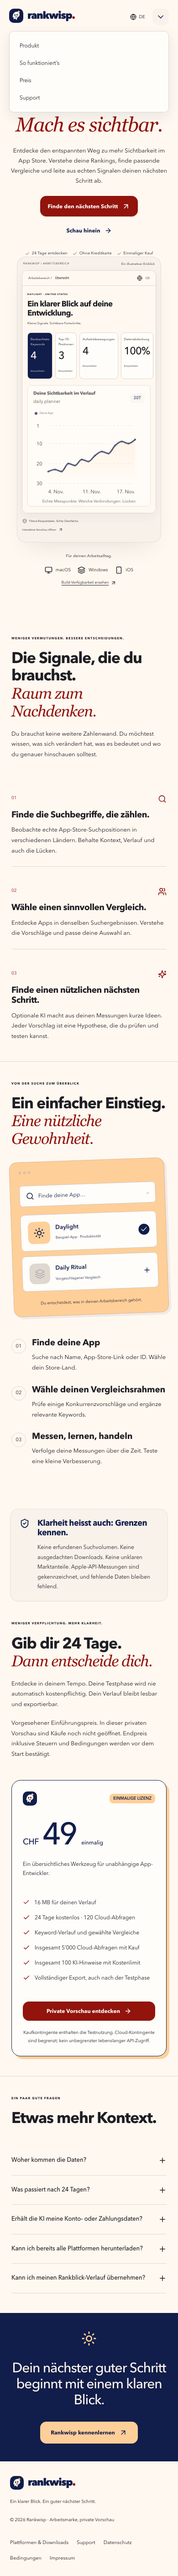
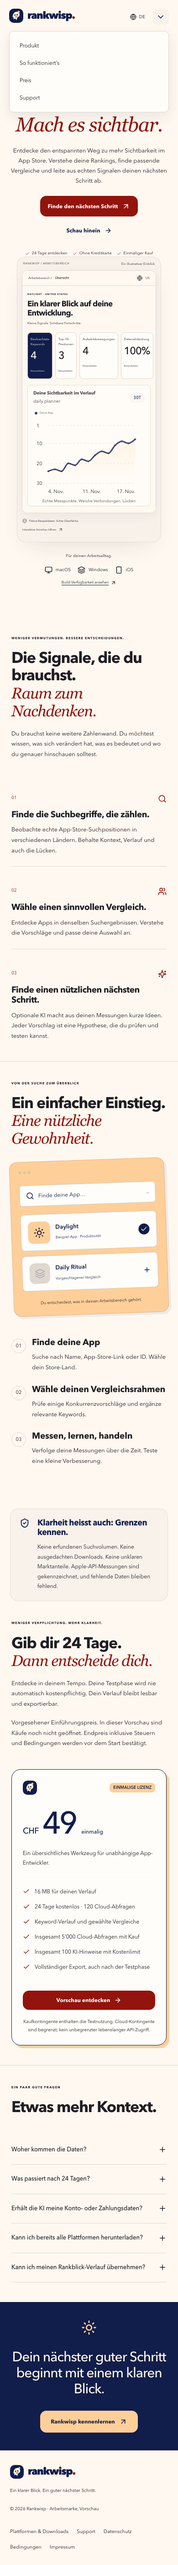
Fix Pages app entry, canonical metadata and deployed preview disclosures

diff --git a/app/src/marketing.jsx b/app/src/marketing.jsx
@@ -412,8 +412,8 @@ function MarketingBody({ page }) {
                 </p>
                 <p className="small muted">
                   {tr(
-                    "Proposed launch pricing. Purchases are not open in this private preview. Final tax-inclusive pricing and terms must be confirmed before launch.",
-                    "Vorgesehener Einführungspreis. In dieser privaten Vorschau sind Käufe noch nicht geöffnet. Endpreis inklusive Steuern und Bedingungen werden vor dem Start bestätigt.",
+                    "Proposed launch pricing. Purchases are not open in this preview. Final tax-inclusive pricing and terms must be confirmed before launch.",
+                    "Vorgesehener Einführungspreis. In dieser Vorschau sind Käufe noch nicht geöffnet. Endpreis inklusive Steuern und Bedingungen werden vor dem Start bestätigt.",
                   )}
                 </p>
               </div>
@@ -471,8 +471,8 @@ function MarketingBody({ page }) {
                 </ul>
                 <a href="/app" className="button">
                   {tr(
-                    "Explore the private preview",
-                    "Private Vorschau entdecken",
+                    "Explore the preview",
+                    "Vorschau entdecken",
                   )}{" "}
                   <ArrowRight size={16} />
                 </a>
@@ -586,8 +586,8 @@ function MarketingBody({ page }) {
           <span className="small muted">
             © {new Date().getFullYear()} Rankwisp ·{" "}
             {tr(
-              "Working brand, private preview",
-              "Arbeitsmarke, private Vorschau",
+              "Working brand, preview",
+              "Arbeitsmarke, Vorschau",
             )}
           </span>
         </div>
@@ -845,7 +845,7 @@ function InfoPage({ page }) {
                 <h2>{name}</h2>
                 <p>{detail}</p>
                 <span className="pill">
-                  {tr("Private development", "Private Entwicklung")}
+                  {tr("Development build", "Entwicklungsbuild")}
                 </span>
               </article>
             ))}
@@ -859,22 +859,22 @@ function InfoPage({ page }) {
         <>
           <p className="lede">
             {tr(
-              "This notice describes the current private preview. The legal operator, hosting region and processor agreements must be confirmed before public launch.",
-              "Diese Erklärung beschreibt die aktuelle private Vorschau. Rechtlicher Betreiber, Hostingregion und Auftragsverarbeitungsverträge müssen vor dem öffentlichen Start bestätigt werden.",
+              "This is a review draft for the publicly accessible preview. Operator details and processor agreements still require confirmation before commercial use.",
+              "Dies ist ein Prüfentwurf für die öffentlich erreichbare Vorschau. Betreiberangaben und Auftragsverarbeitungsverträge müssen vor kommerzieller Nutzung noch bestätigt werden.",
             )}
           </p>
           <h2>{tr("What is stored", "Was gespeichert wird")}</h2>
           <p>
             {tr(
-              "Your account email, a salted password hash, session records, immutable trial dates, licence and usage counters, selected apps, keywords, observations and import backups. Local language preference is saved on your device. Session cookies are necessary for sign-in; no advertising cookies are used.",
-              "Deine Konto-E-Mail, ein gesalzener Passwort-Hash, Sitzungen, unveränderlicher Testbeginn, Lizenz und Nutzungskontingente, gewählte Apps, Keywords, Messungen und Importsicherungen. Die Sprachwahl wird lokal gespeichert. Sitzungscookies sind zur Anmeldung erforderlich; Werbecookies werden nicht eingesetzt.",
+              "When Google sign-in is configured: your Google account identifier and verified email, hashed session records, trial dates, licence and usage counters, selected apps, keywords, observations and import backups. Google access and ID tokens are not retained. Password hashes apply only to the separate local Node version. Local language preference is saved on your device. Session cookies are necessary for sign-in; no advertising cookies are used.",
+              "Wenn Google-Anmeldung eingerichtet ist: Google-Kontokennung und bestätigte E-Mail, gehashte Sitzungsdaten, Testbeginn, Lizenz und Nutzungskontingente, gewählte Apps, Keywords, Messungen und Importsicherungen. Google-Zugriffs- und ID-Tokens werden nicht aufbewahrt. Passwort-Hashes betreffen nur die separate lokale Node-Version. Die Sprachwahl wird lokal gespeichert. Sitzungscookies sind zur Anmeldung erforderlich; Werbecookies werden nicht eingesetzt.",
             )}
           </p>
           <h2>{tr("Where requests go", "Wohin Anfragen gehen")}</h2>
           <p>
             {tr(
-              "Apple receives search terms, app IDs and storefront country. App icons load from Apple’s CDN and may expose your IP address to Apple. With your separate permission, OpenAI receives bounded project observations for requested advice. Provider API keys remain on the server. Payment processing will use a configured provider only after launch approval.",
-              "Apple erhält Suchbegriffe, App-IDs und das Store-Land. App-Icons werden von Apples CDN geladen, wodurch Apple deine IP-Adresse erhält. Mit deiner gesonderten Einwilligung erhält OpenAI begrenzte Projektmessungen für angeforderte Empfehlungen. API-Schlüssel bleiben auf dem Server. Zahlungsabwicklung erfolgt erst nach Freigabe über einen eingerichteten Anbieter.",
+              "Cloudflare serves this website and API and stores account data using D1 and SQLite Durable Objects; network requests disclose your IP address to Cloudflare. Google handles sign-in when enabled. Apple receives search terms, app IDs and storefront country. App icons load from Apple’s CDN and may expose your IP address to Apple. With your separate permission, OpenAI receives bounded project observations for requested advice. Provider API keys remain on the server. Payment processing will use a configured provider only after launch approval.",
+              "Cloudflare stellt Website und API bereit und speichert Kontodaten in D1 und SQLite Durable Objects; dabei erhält Cloudflare deine IP-Adresse. Google übernimmt die Anmeldung, sobald sie aktiviert ist. Apple erhält Suchbegriffe, App-IDs und das Store-Land. App-Icons werden von Apples CDN geladen, wodurch Apple deine IP-Adresse erhält. Mit deiner gesonderten Einwilligung erhält OpenAI begrenzte Projektmessungen für angeforderte Empfehlungen. API-Schlüssel bleiben auf dem Server. Zahlungsabwicklung erfolgt erst nach Freigabe über einen eingerichteten Anbieter.",
             )}
           </p>
           <h2>{tr("Analytics is optional", "Analytics ist optional")}</h2>
@@ -953,8 +953,8 @@ function InfoPage({ page }) {
         <>
           <p className="lede">
             {tr(
-              "Rankwisp is a working brand in private development.",
-              "Rankwisp ist eine Arbeitsmarke in privater Entwicklung.",
+              "Rankwisp is a working brand with a publicly accessible development preview.",
+              "Rankwisp ist eine Arbeitsmarke mit öffentlich erreichbarer Entwicklungsvorschau.",
             )}
           </p>
           <h2>Support</h2>
@@ -964,8 +964,8 @@ function InfoPage({ page }) {
           </h2>
           <p>
             {tr(
-              "The legal operator’s name, service address, legal form and any required registration/tax details have not yet been supplied. They must be completed and reviewed before public launch or sales. No company or address is inferred from the support email.",
-              "Name des rechtlichen Betreibers, Geschäftsadresse, Rechtsform und erforderliche Register-/Steuerangaben wurden noch nicht bereitgestellt. Sie müssen vor öffentlichem Start oder Verkauf ergänzt und geprüft werden. Aus der Support-E-Mail werden keine Firma oder Adresse abgeleitet.",
+              "The legal operator’s name, service address, legal form and any required registration/tax details have not yet been supplied. They must be completed and reviewed before commercial launch or sales. No company or address is inferred from the support email.",
+              "Name des rechtlichen Betreibers, Geschäftsadresse, Rechtsform und erforderliche Register-/Steuerangaben wurden noch nicht bereitgestellt. Sie müssen vor kommerziellem Start oder Verkauf ergänzt und geprüft werden. Aus der Support-E-Mail werden keine Firma oder Adresse abgeleitet.",
             )}
           </p>
           <h2>{tr("Independent product", "Unabhängiges Produkt")}</h2>

diff --git a/app/src/i18n.jsx b/app/src/i18n.jsx
@@ -71,8 +71,8 @@ export function errorText(code, locale) {
       "Ein bestehendes Konto verwendet diese E-Mail. Kontaktiere den Support, um es sicher zu verknüpfen.",
     ],
     GOOGLE_NOT_CONFIGURED: [
-      "Google sign-in is not available yet. Use email or try again later.",
-      "Google-Anmeldung ist noch nicht verfügbar. Nutze E-Mail oder versuche es später.",
+      "Google sign-in is not available yet. Please try again later or contact support.",
+      "Google-Anmeldung ist noch nicht verfügbar. Versuche es später oder kontaktiere den Support.",
     ],
     GOOGLE_ALREADY_PENDING: [
       "A Google sign-in is already open. Complete or cancel it first.",
@@ -132,8 +132,8 @@ export function errorText(code, locale) {
       "Deine Testphase ist beendet. Du kannst weiterhin alle Daten lesen und exportieren.",
     ],
     PAYMENTS_NOT_CONFIGURED: [
-      "Purchases are not available in this local preview.",
-      "Käufe sind in dieser lokalen Vorschau noch nicht verfügbar.",
+      "Purchases are not available in this preview.",
+      "Käufe sind in dieser Vorschau noch nicht verfügbar.",
     ],
     REFRESH_RUNNING: [
       "This project is already refreshing.",

diff --git a/app/src/App.jsx b/app/src/App.jsx
@@ -1998,8 +1998,8 @@ function Auth({ onReady, config, notice, onRetry }) {
         </a>
         <p className="auth-fine">
           {tr(
-            "Private development preview. Purchases are not yet open.",
-            "Private Entwicklungsvorschau. Käufe sind noch nicht freigeschaltet.",
+            "Development preview. Purchases are not yet open.",
+            "Entwicklungsvorschau. Käufe sind noch nicht freigeschaltet.",
           )}{" "}
           <a href={`/${locale}/privacy`}>{tr("Privacy", "Datenschutz")}</a>
         </p>
